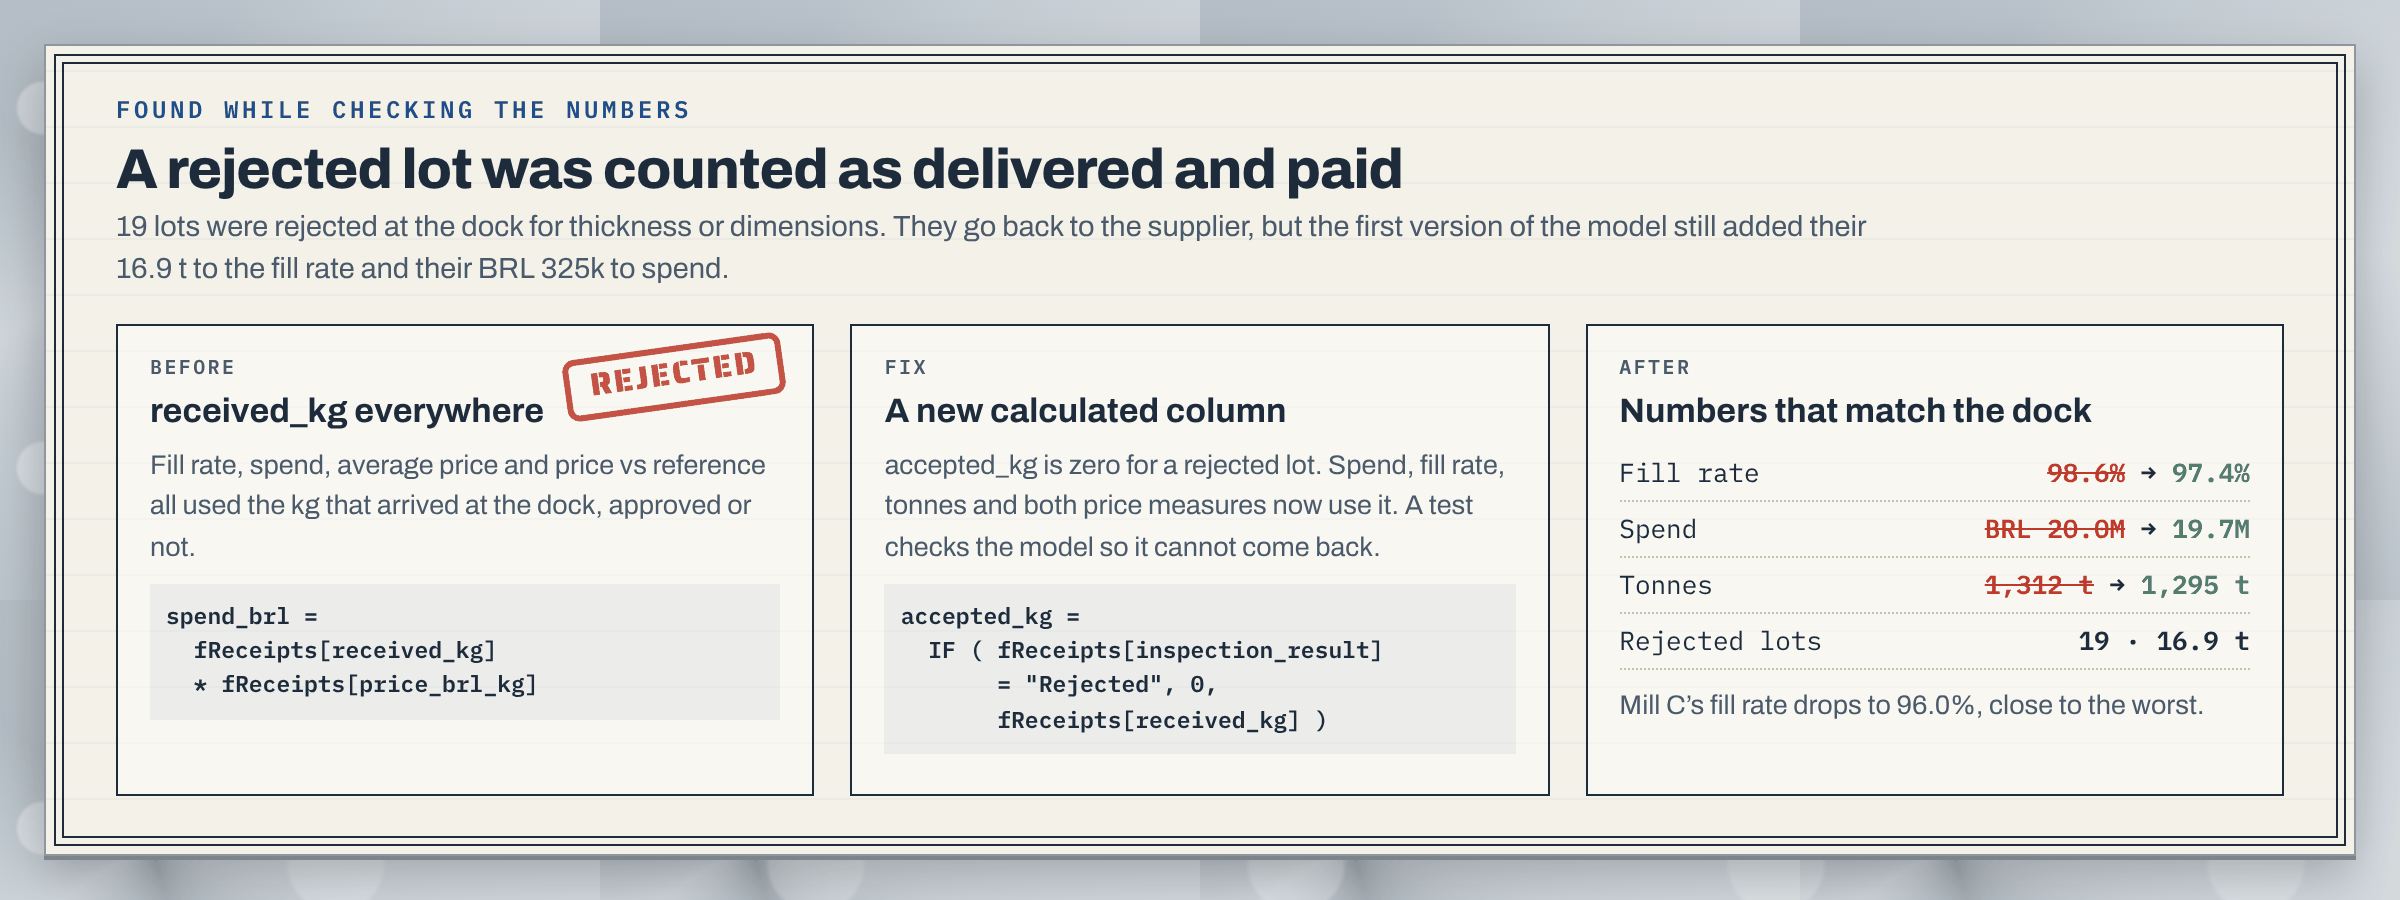
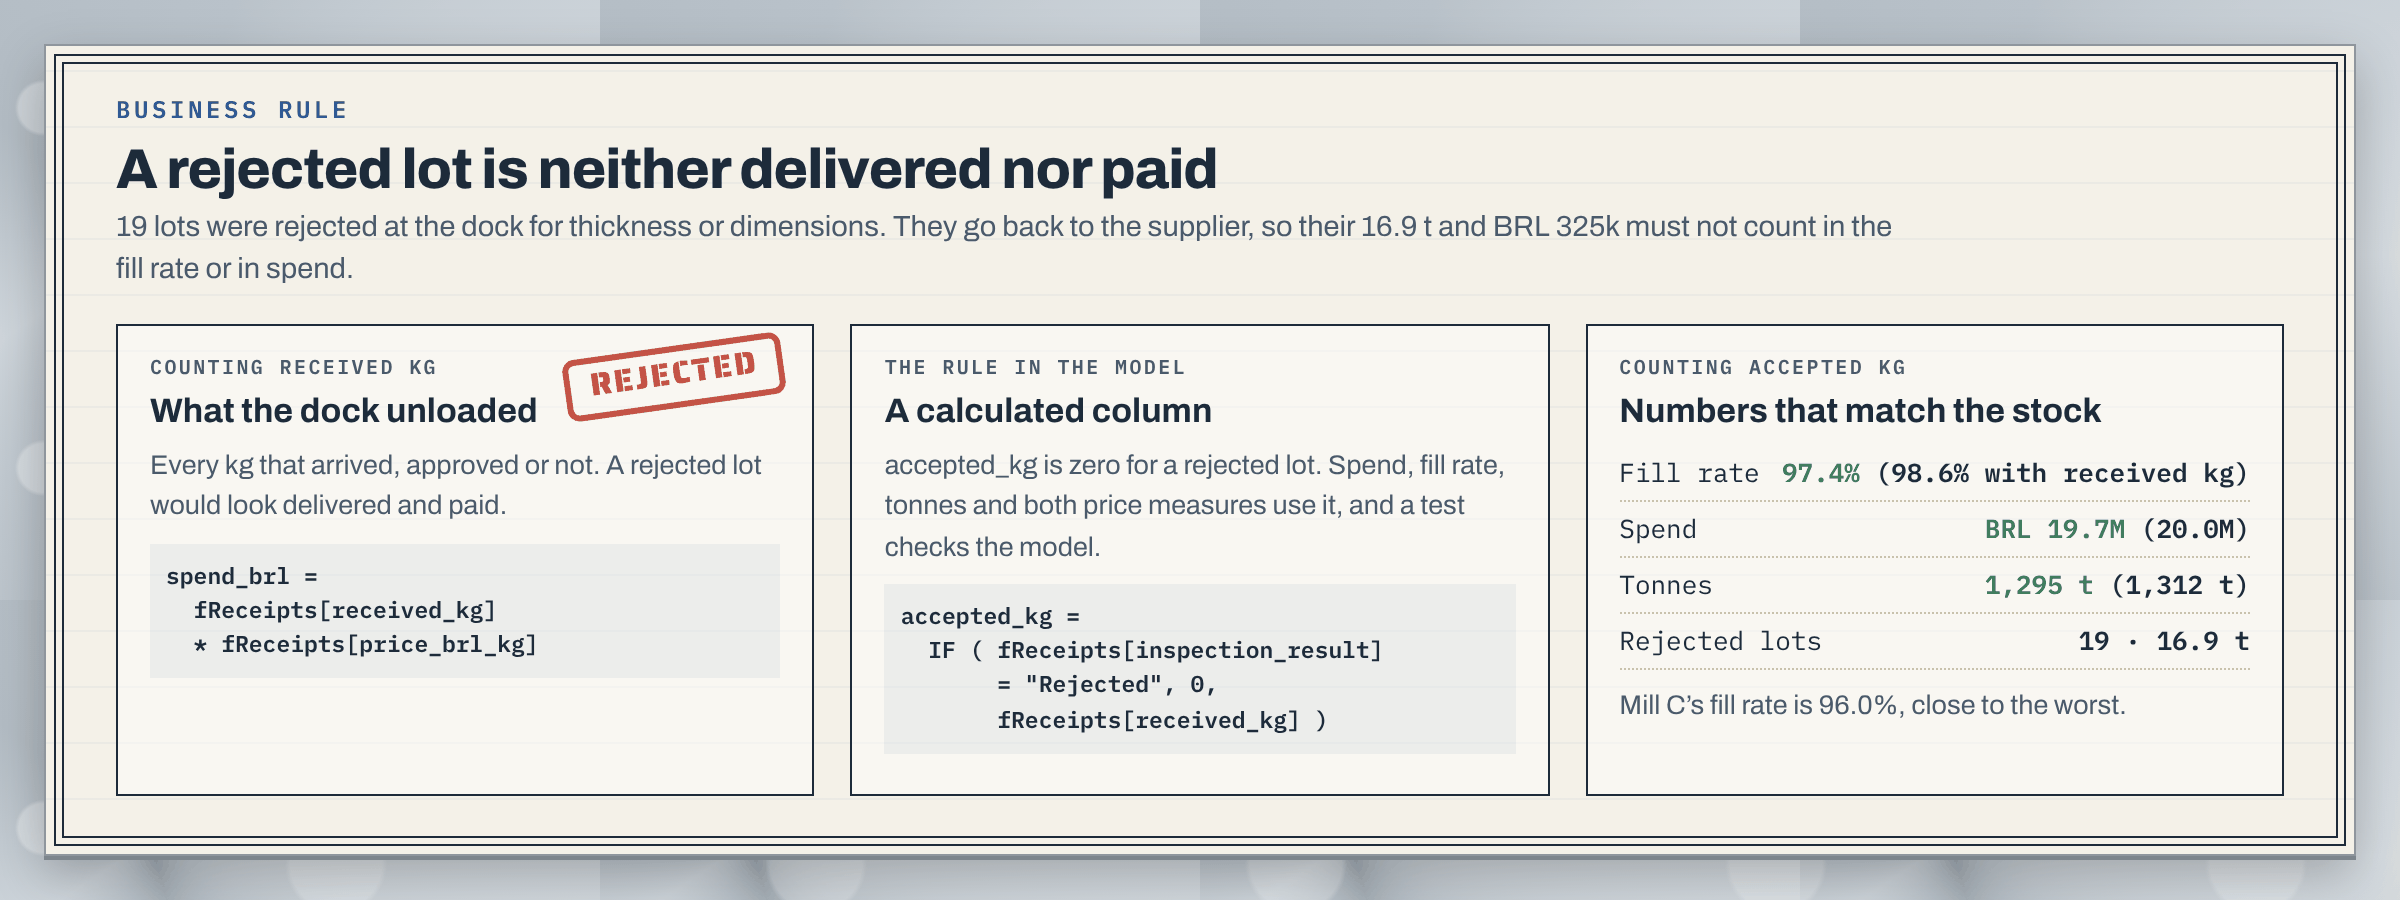
describe rejected lots as a business rule

diff --git a/README.md b/README.md
@@ -82,19 +82,19 @@ The dashboard answers two questions, one per page:
 
 ---
 
-## Two bugs found while checking the numbers
+## Two rules the numbers depend on
 
-### A rejected lot counted as delivered and paid
+### A rejected lot is neither delivered nor paid
 
-![A rejected lot was counted as delivered and paid](docs/rejected-lot.png)
+![A rejected lot is neither delivered nor paid](docs/rejected-lot.png)
 
-The first version of the model counted every kg that arrived at the dock as delivered and paid, even when the lot was rejected and sent back to the supplier. That added 19 lots, 16.9 t and BRL 325k that never entered the stock, and pushed the fill rate from 97.4% to 98.6%.
+A lot rejected at the dock goes back to the supplier: it never enters the stock and is not paid. So the model counts accepted kg, not received kg. A calculated column, `accepted_kg`, is zero for a rejected lot, and spend, fill rate, tonnes, average price and price vs reference all use it.
 
-The fix is a calculated column, `accepted_kg`, that is zero for a rejected lot. Spend, fill rate, tonnes, average price and price vs reference now use it, and `tests/test_kpis.py` checks the model so the old formula cannot come back.
+In this dataset that rule takes out 19 lots, 16.9 t and BRL 325k. Counting received kg instead would show a fill rate of 98.6% instead of 97.4%. `tests/test_kpis.py` checks both the data and the model, so a measure can't go back to received kg.
 
-### A click that made the nonconformity rate 244%
+### A filter inside a measure must not replace the user's click
 
-Recording the published report showed a second problem. Clicking "Surface rust" in the nonconformities chart made the nonconformity rate card jump to 244.4%. The measure counted nonconformities with `CALCULATE ( ..., fReceipts[nonconformity] <> "No issue" )`, and that filter replaced the click on the same column: it counted all 88 nonconformities and divided by the 36 rusty receipts.
+Recording the published report showed a problem with this. Clicking "Surface rust" in the nonconformities chart made the nonconformity rate card jump to 244.4%. The measure counted nonconformities with `CALCULATE ( ..., fReceipts[nonconformity] <> "No issue" )`, and that filter replaced the click on the same column: it counted all 88 nonconformities and divided by the 36 rusty receipts.
 
 Wrapping the filter in `KEEPFILTERS` makes it intersect with the click instead of replacing it, so the rate inside one type is 100%. The same fix went into on-time, late receipts, average days late and rejection rate, and a test now fails if a measure filters a receipts column without `KEEPFILTERS`.
 

diff --git a/docs/case-study.md b/docs/case-study.md
@@ -36,7 +36,7 @@ Purchasing compared suppliers mainly by price per kg. Nobody tracked, in one pla
 ## What I learned
 
 - Price per kg is a weighted average; a simple average of prices gives the wrong number.
-- A rejected lot is not a delivery. My first version counted the 19 rejected lots (16.9 t, BRL 325k) as delivered and paid, which pushed the fill rate from 97.4% to 98.6%.
+- A rejected lot is not a delivery. The 19 rejected lots (16.9 t, BRL 325k) count as zero accepted kg and zero spend; counting received kg instead would show a fill rate of 98.6% instead of 97.4%.
 - A supplier scorecard is more useful when delivery, quality and price sit side by side in one table.
 
 ## Screenshots
